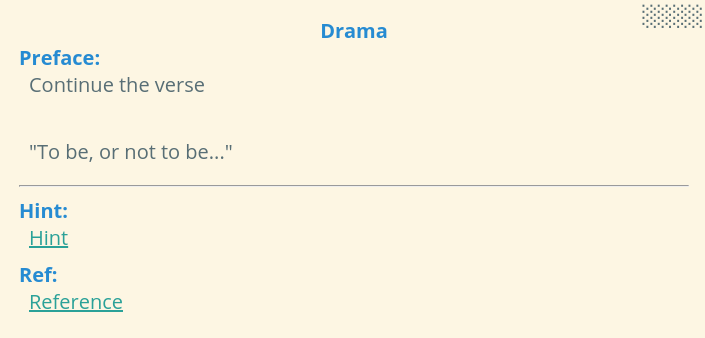
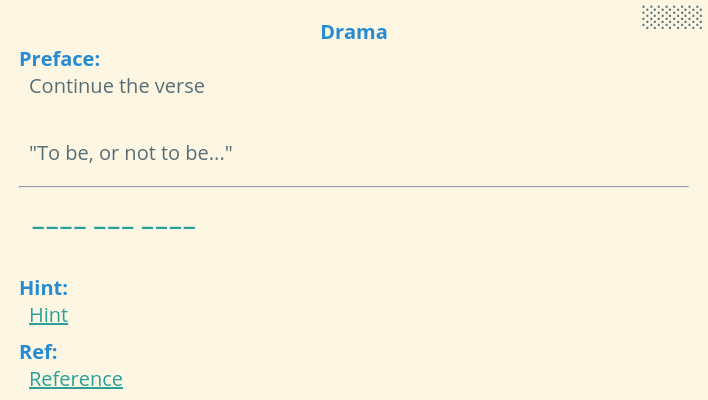
added answer placeholder to the freeform card

diff --git a/Freeform/front.html b/Freeform/front.html
@@ -17,6 +17,12 @@
 
 <hr />
 
+<div class="text-block" id="text-back">
+	<div>____ ___ ____</div>
+</div>
+	
+	
+
 {{#Hint}}
 	<div class="sem-block">
 		<strong>Hint:</strong> 
